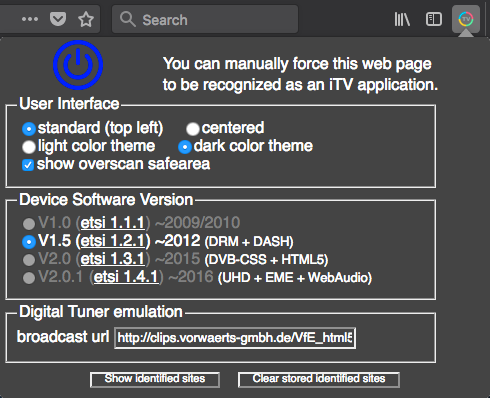
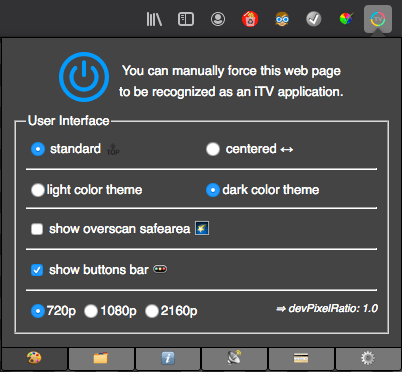
For upcoming release
Refactoring info and tiny fixes

diff --git a/README.md b/README.md
@@ -1,17 +1,16 @@
-&nbsp;
 <p align="center">
 <img src="img/tv-icon128-on.png">
 </p>
 <p align="center">
-  <img src="https://img.shields.io/badge/release-v0.6-red.svg">&nbsp;&nbsp;&nbsp;
+  <img src="https://img.shields.io/github/v/release/karl-rousseau/HybridTvViewer.svg?color=red">&nbsp;&nbsp;&nbsp;
 	<a href="https://travis-ci.org/karl-rousseau/HybridTvViewer" alt="Travis-CI"><img src="https://travis-ci.com/karl-rousseau/HybridTvViewer.svg?branch=master"></a>&nbsp;&nbsp;&nbsp;
   <img src="https://img.shields.io/badge/vanilla-JS-yellow.svg">&nbsp;&nbsp;&nbsp;
-	<a href="https://github.com/karl-rousseau/HybridTvViewer/blob/master/LICENSE" alt="License:MIT"><img src="https://img.shields.io/badge/license-MIT-blue.svg"></a><br>
+	<a href="https://github.com/karl-rousseau/HybridTvViewer/blob/master/LICENSE" alt="License:MIT"><img src="https://img.shields.io/github/license/karl-rousseau/HybridTvViewer.svg?color=blue"></a><br>
   <br>
 </p>
 A browser extension following such Hybrid interactive TV technologies:
 
-![hbbtv](img/logo-hbbtv.png) &nbsp;&nbsp;&nbsp; ![oipf](img/logo-oipf.png) &nbsp;&nbsp;&nbsp; ![atsc3](img/logo-atsc.png) &nbsp;&nbsp;&nbsp; ![ohtv](img/logo-ohtv.png)
+![hbbtv](img/logo-hbbtv.png) &nbsp;&nbsp;&nbsp; ![oipf](img/logo-oipf.png) &nbsp;&nbsp;&nbsp; ![atsc3](img/logo-atsc.png)
 
 
 ## Preamble
@@ -21,32 +20,39 @@ Be aware that if this browser extension version is still less than 1.0, do consi
 ```
 The purpose of this project is to avoid the default browser action which is to download various iTV (interactive television) application pages based on the HTML standard with some proprietary methods. Here this browser extension is detecting those pages and injecting during page load an emulation layer (plus a bottom UI toolbar). In addition, unrecognized video formats are also handled by external HTML5 video plugins.
 
+## Installation
+
 This browser extension is available for free on those distribution platforms:
 
-| Browser: | Mozilla Firefox (V57+) | Google Chrome | Apple Safari |
-| -------- | -------- | ------ | ------ |
-| Extension: | [<img  src="https://addons.cdn.mozilla.net/static/img/addons-buttons/AMO-button_2.png">](https://addons.mozilla.org/en-US/firefox/addon/hybridtvviewer/) | no free publishing.<br>See dev install in [wiki](https://github.com/karl-rousseau/HybridTvViewer/wiki/HowTo) | no support for [Web Extensions](https://developer.mozilla.org/en-US/Add-ons/WebExtensions) yet |
+| Browser: | Mozilla Firefox (not ESR) | Google Chrome / Microsoft Edge |
+| -------- | ----------------------------- | ---------------------- |
+| Version: | V67+ for ES6 dynamic import | V63+ for ES6 dynamic import |
+| Extension availability: | [<img src="https://addons.cdn.mozilla.net/static/img/addons-buttons/AMO-button_2.png">](https://addons.mozilla.org/en-US/firefox/addon/hybridtvviewer/) | ☑ unpublished (will try M$ Store)<br>➳ instead see [wiki](https://github.com/karl-rousseau/HybridTvViewer/wiki/HowTo) dev install |
 
-Please note that not all video codecs are recognized in current (i.e. 2019) browsers:
+## Restrictions
 
-| Browser: | Mozilla Firefox (V57+) | Google Chrome | Apple Safari |
-| -------- | -------- | ------ | ------ |
-| Codec [H.264](https://caniuse.com/#feat=mpeg4): | yes (embedded plugin by Cisco) | yes | yes |
-| Codec [H.265](https://caniuse.com/#feat=hevc): | no (not free license) | [yes here](https://github.com/henrypp/chromium/releases) (win10+) | yes (MacOS 10.13+) |
+Please note that not all video codecs are recognized in current (i.e. 2020) browsers:
 
-If you need to create your own video stream (within TS or DASH container), I suggest you the well-known [FFMPEG](https://www.ffmpeg.org/) and [MP4BOX](https://gpac.wp.imt.fr/mp4box/) tools.
+| Browser: | Mozilla Firefox | Google Chrome | Apple Safari | Android Chrome |
+| -------- | -------- | ------ | ------ | ------ |
+| Codec [H.264](https://caniuse.com/#feat=mpeg4): | ✅ embedded plugin by Cisco | ✅ present | ✅ present | ✅ present |
+| Codec [H.265](https://caniuse.com/#feat=hevc): | ❌ no free license | ✅ [here](https://github.com/henrypp/chromium/releases) (win10) | ✅ in MacOS 10.13+ | ☑ device-dependent |
 
-## Screenshot
+If you need to create your own video stream (within TS or DASH container), I suggest you the well-known [FFMPEG](https://www.ffmpeg.org/) or [MP4BOX](https://gpac.wp.imt.fr/mp4box/) tools. And in real life (i.e. without this extension), OpenCaster will help you to create your own TS file that can be broadcasted with a [Dektec](https://www.dektec.com/products/USB/DTU-315/) or [Hides](http://www.hides.com.tw/product_opencaster_eng.html) USB modulator and you will then be able to test your app on a true Oipf/Hbbtv device (like a Smart TV)
 
-![](img/screenshot_popup.png)
+➳ see [Tools](#Tools)
+
+## Screenshots
+
+![](img/screenshot_popup.png) &nbsp; ![](img/screenshot_popup2.png)
 
 ## Features
 
 | Feature            | Description |
 | ------------------ | ----------- |
-| auto-detection     | an analysis of HTTP server headers plus inside HTML header & meta tags is performed |
+| auto-detection     | an analysis of HTTP server headers and embedded HTML header & meta tags, is performed |
 | forced detection   | user on-clicked power button ![](https://www.iconfinder.com/icons/1608429/download/png/16) will force or disable iTV emulation (auto-saved in web extension local storage) |
-| bottom bar  | underneath the screen rendering, the emulator is providing some buttons (colored keys, resolutions for zoomed rendering, ...) |
+| bottom bar  | located underneath the screen rendering, the emulator is providing some buttons (colored keys, resolutions for zoomed rendering, ...) |
 | iDTV customization | the extension enables customization of various parameters (user-agent, OIPF capabilities, country, CAS id, DVB channels, ...) |
 | external inputs | it handles some external inputs such as CI+ APDU reply message, Stream-Event content customization & triggering, DVB channels with customized LCN, ... |
 | video support | it handles the rendering of browser unrecognized broadcast video stream: Mpeg-TS and Mpeg-DASH (with the help of external libraries) |
@@ -77,7 +83,7 @@ If you want to create your own [HbbTV](https://www.hbbtv.org) application, you c
 <title>My 1st HbbTV app</title>
 <meta http-equiv="Content-Type" content="application/vnd.hbbtv.xhtml+xml; charset=UTF-8" />
 <meta http-equiv="pragma" content="no-cache" />
-<style>* { margin:0; padding:0; background-repeat:no-repeat; font-family:"Tiresias Screenfont",sans-serif; }
+<style>* { margin:0; padding:0; background-repeat:no-repeat; font-family:Tiresias,sans-serif; }
 #broadcast { position:absolute; top:0; left:0; width:1280px; height:720px; }
 #title { position:absolute; top:200px; left:200px; width:100px; height:99px; font-size:32px; color:red; }</style>
 <script type="text/javascript">
@@ -88,16 +94,15 @@ window.onload = function() {
   if (app && app.show) app.show(); // needed to show the HbbTV app on screen
   if (app && app.activate) app.activate();
   if (app && app.privateData) app.privateData.keyset.setValue(0x1f);
-  function keyDown(event) {
+  window.focus();
+  window.onkeydown = function(event) {
 	  switch(event.keyCode) {
 		  case 13: case window.VK_ENTER:
 			  document.getElementById('title').textContent = 'OK key pressed';
 			  event.stopPropagation(); event.preventDefault(); return false; break;
 		  default: return true;
 	  }
-  }
-  window.addEventListener('keydown', keyDown.bind(this), false);
-  window.focus();
+  };
   // Here is you app code ...
   document.getElementById('title').textContent = 'Hello from HbbTV';
 };
@@ -107,7 +112,6 @@ window.onload = function() {
 <object id="broadcast" type="video/broadcast"></object>
 <object id="oipfAppMan" type="application/oipfApplicationManager" style="width:0; height:0;"></object>
 <object id="oipfConfig" type="application/oipfConfiguration" style="width:0; height:0;"></object>
-
 <div id="title"></div>
 </body></html>
 ```
@@ -118,10 +122,10 @@ I also recommend you the [BBC Tal framework](http://www.bbc.co.uk/opensource/pro
 ## Dependencies
 
 This project is not modifying those libraries and only doing a dynamic dependency call at runtime on their CDN releases.
-- [DASH.js 2.0](https://github.com/Dash-Industry-Forum/dash.js): reference client to decode DASH manifest files and provide DASH segments to HTML5 EME video player
-  * Copyright 2015 Dash Industry Forum with BSD license
-- [MUX.js](https://github.com/videojs/mux.js): useful library to transmux Mpeg-TS to MP4 on the fly
-  * Copyright 2015 Brightcove with APACHE 2.0 license
+- [DASH.js](https://github.com/Dash-Industry-Forum/dash.js): reference client to decode DASH manifest files and provide DASH segments to HTML5 MSE+EME video player  
+  ↳ Copyright 2015 Dash Industry Forum with BSD license
+- [MUX.js](https://github.com/videojs/mux.js): useful library to transmux Mpeg-TS to MP4 on the fly in order to feed HTML5 MSE video player  
+  ↳ Copyright 2015 Brightcove with APACHE 2.0 license
 
 ## Abbreviations
 
@@ -143,17 +147,35 @@ This project is not modifying those libraries and only doing a dynamic dependenc
 
 - MHP (Multimedia Home Platform) : Based on SUN JAVA technology working on [GEM-MHP](https://en.wikipedia.org/wiki/Globally_Executable_MHP) middleware
   * initialy defined by [ETSI TS 101 812](http://www.etsi.org/deliver/etsi_ts/101800_101899/101812/01.02.01_60/ts_101812v010201p.pdf) documentation
-- **HbbTV** (Hybrid Broadband Broadcast TeleVision) :
+  * no more ~~supported in browsers~~ (might still run on Firefox 52 ESR + Java8 NPAPI plugin + BDJ.jar + viewer)
+- HbbTV (Hybrid Broadband Broadcast TeleVision) :
   * defined by current [ETSI TS 102 796 V1.3.1](http://www.etsi.org/deliver/etsi_ts/102700_102799/102796/01.03.01_60/ts_102796v010301p.pdf) specifications (aka HbbTV V2.0)
-    * bringing **Companion Screen** management and **HTML5 video tag** notation within [HbbTV V2.0 only](https://www.hbbtv.org/resource-library/#specifications)
+    * bringing *Companion Screen* management and *HTML5 video tag* notation within [HbbTV V2.0 only](https://www.hbbtv.org/resource-library/#specifications)
   * following old MHP AITX structure
-  * handling some CEA-2014 notations
-  * implementing a subset of OIPF objects (with optional ones: +PVR +DL ...)
+  * handling some CEA-2014 notations ~ EcmaScript 3.0 and ~~not ES6~~ ⚠ (use a compiler such as [Babel](https://babeljs.io/))
+  * implementing a subset of [OIPF objects](https://www.oipf.tv/) (with optional ones: +PVR +DL ...)
   * replacing device manufacturer's portal using [OpApps TS 103 606](https://www.hbbtv.org/resource-library/specifications/#spec-operator-applications-opapps) features
 - OHTV (Open Hybrid TV) : similar to HbbTV and used for example at [iCON TV](http://able.kbs.co.kr/enter/tal_view.php?mseq=16&pcg=&pgseq=&no=270211) in KOREA by the national broadcaster *KBS* since 2010. Since 2016, it is now named IBB (Integrated Broadcast Broadband) defined by [ITU-R BT.2267-6](https://www.itu.int/dms_pub/itu-r/opb/rep/R-REP-BT.2267-6-2016-PDF-E.pdf)
 - BML (Broadcast Markup Language) : similar to HbbTV and defined by ARIB STD B-24 standard used in JAPAN over ISDB-T broadcasted channels like [*NHK*](https://www.nhk.or.jp/strl/publica/bt/en/fe0003-1.html)
 - CE-HTML (Consumer Electronics HTML) : nowadays less used and only found on old devices.
-- OIPF (Open IPTV Forum) : used on some STB. Since 2014 activities have been transfered to HbbTV association.
-- **ATSC** (Advanced Television Systems Committee) : broadcast standard in USA where [ATSC V3](https://www.atsc.org/standards/atsc-3-0-standards/) follows HbbTV V2
-- [OpenCaster](https://github.com/aventuri/opencaster) : if you want to broadcast your application using an USB modulator (such as next Hides Inc one), you can package your TS file and broadcast it using this free software.
-- [Hides Inc](http://www.hides.com.tw/product_opencaster_eng.html) : this company is selling an USB DVB-T modulator named UT-100C.
+- OIPF (Open IPTV Forum) : used on some STB. Since 2014 activities have been transferred to HbbTV association
+- ATSC (Advanced Television Systems Committee) : broadcast standard in USA where [ATSC V3](https://www.atsc.org/standards/atsc-3-0-standards/) follows HbbTV V2
+
+## Tools and hardware
+
+- [VizionR](http://vizionr.com/) is a French 🇫🇷 company selling various softwares like [Unyssea HbbTV injector](http://vizionr.com/Booklet_InserterHbbTV_en.pdf) and also a modulator named [BeeBeeBox](http://site.vizionr.fr/site/index.php/offre-hbbtv/) compliant HbbTV with DSMCC support
+- [Mit-Xperts](https://www.mit-xperts.com/products/) is a German 🇩🇪 company selling various softwares like [iMux multiplexer server](https://www.mit-xperts.com/products/imux/imux.pdf) having HbbTV/MHP/MHEG with carousels support
+- [Avalpa OpenCaster](https://github.com/aventuri/opencaster) is a free Italian 🇮🇹 software needed if you want to broadcast your application using a modulator (such as next Hides Inc one), you can package your TS file (including object carousel) and broadcast it using this free software (over your local network or through a modulator)
+- [Hides Inc](http://www.hides.com.tw/product_eng.html) is a Taiwan 🇹🇼 company selling an USB DVB-T modulator named [UT-100C](http://www.hides.com.tw/product_opencaster_eng.html) which includes [OpenCaster software](http://www.avalpa.com/the-key-values/15-free-software/33-opencaster) and [windows & linux drivers](https://www.dropbox.com/sh/r80tjnkapkgzeg9/AAC_CaOmlOKQeh7h90wbkUfpa)
+- [Dektec](https://www.dektec.com/products/) is a US 🇺🇸 company offering a catalog of various modulators on PCIe, USB2 and also USB3, here called [DTU-315](https://www.dektec.com/products/USB/DTU-315/) using the broadcasting command [DtPlay](https://www.dektec.com/downloads/utilities/) on Linux and [StreamXpress](https://www.dektec.com/products/applications/StreamXpress/) under Windows™
+
+## Personal Wishes
+
+I really hope that next HbbTV 3.0 release will have such features:
+- a well defined ES5 foundation following HTML5 browsers with also the addition of **Canvas & WebGL** (every device has now an internal GPU to support hardware acceleration)
+- a [complete implementation](http://www.dial-multiscreen.org/dial-protocol-specification) of **DIAL protocol** which provides a list of available registered remote apps (merged from local broadcasting servers during the discovery scan) that we can display as a grid of apps (as an app store like on AndroidTV), for example in an OpApp portal.
+- like Samsung SDK with *NaCl* (migrating to WASM soon), it will be great to have HbbTV with **WebAssembly** (also including Thread support which will help to use multi-core SoC for AI computation. Nowadays most SmartTV do have a 4-cores ARM CPU)
+
+## Show your support
+
+<img src="https://img.shields.io/github/stars/karl-rousseau/HybridTvViewer.svg?style=social&label=Stars">&nbsp;Please don't forget to add a ⭐ to this repository if this project helped you!
